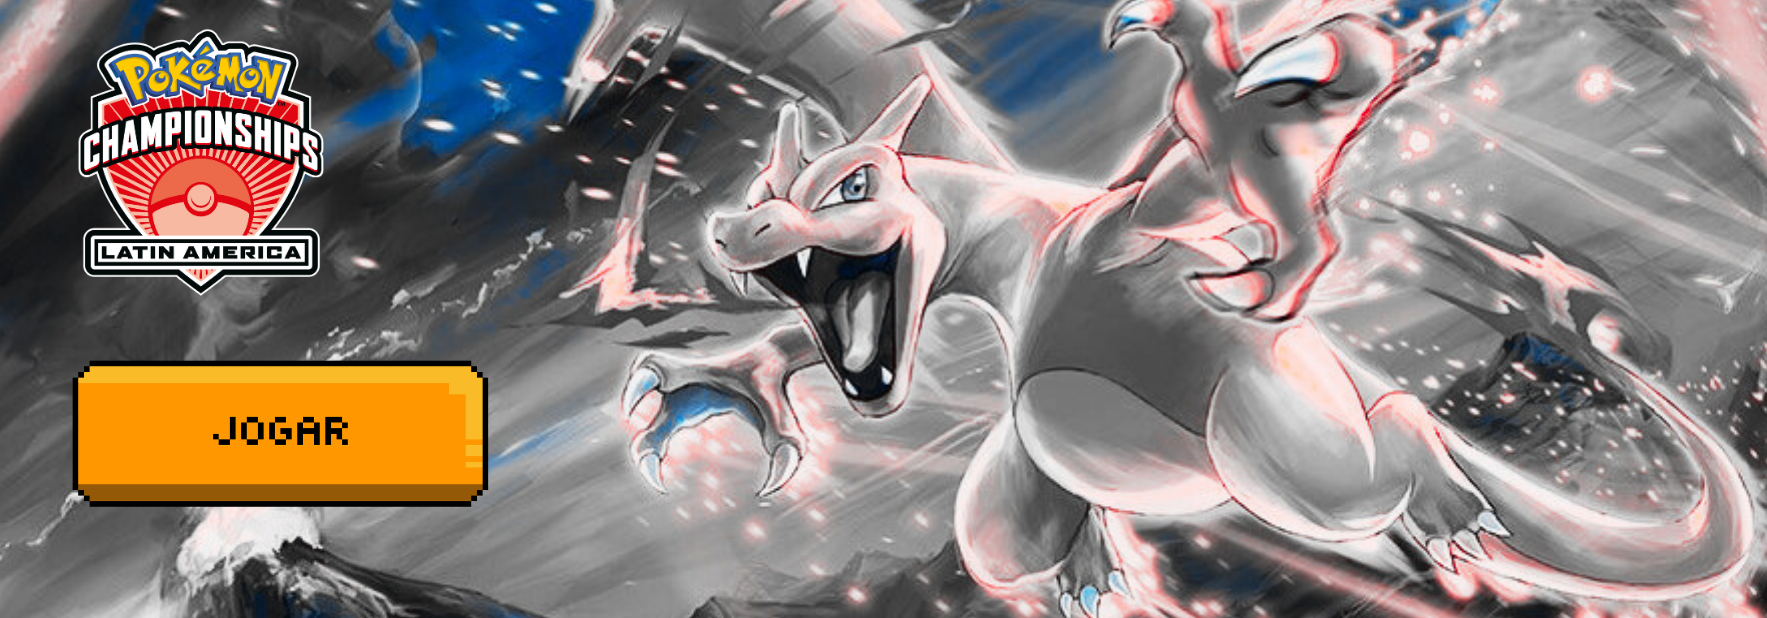
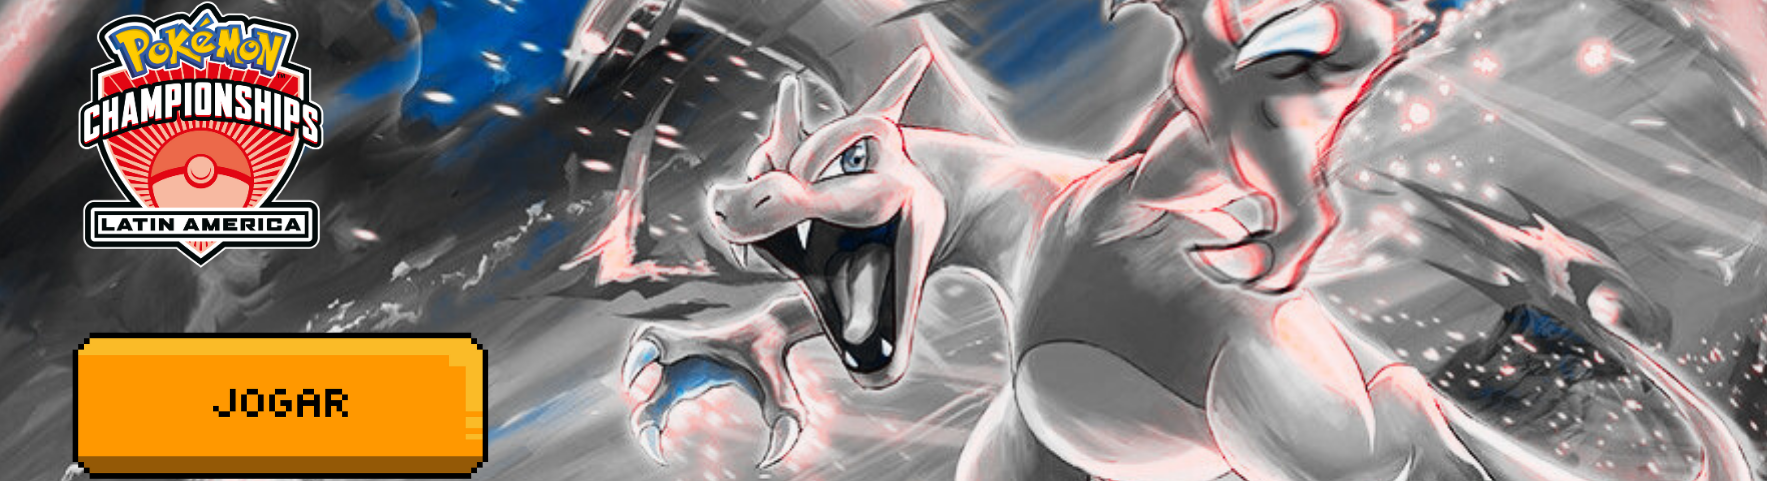
finalizacao pagina

diff --git a/index.html b/index.html
@@ -25,27 +25,24 @@
     </header>
     
 
-
-    <nav class="navbar navbar-expand-lg ">
-        <div class="container-fluid ">
-          
-          <button class="navbar-toggler" type="button" data-bs-toggle="collapse" data-bs-target="#navbarNavAltMarkup" aria-controls="navbarNavAltMarkup" aria-expanded="false" aria-label="Toggle navigation">
-            <span class="navbar-toggler-icon"></span>
-          </button>
-          <ul class="collapse navbar-collapse " id="navbarNavAltMarkup">
-            <div class="navbar-nav ">
-              <li class="nav-iten h2"><a class="nav-link active" aria-current="page" href="#">HOME</a></li>
-              <li class="nav-iten h2"><a class="nav-link" href="./pages/pokedex/pokedex.html">POKEDEX</a></li>
-              <li class="nav-iten h2"><a class="nav-link" href="./pages/aplicativos/aplicativos.html">APPS</a></li>
-              <li class="nav-iten h2"><a class="nav-link" href="./pages/animes/animes.html">ANIMES</a></li>
-              <li class="nav-iten h2"><a class="nav-link" href="./pages/jogos/jogos.html">JOGOS</a></li>
-
-            </div>
-            
-        </ul>
+    <nav class="navbar navbar-expand-lg">
+        <div class="container-fluid">
+            <button class="navbar-toggler" type="button" data-bs-toggle="collapse" data-bs-target="#navbarNavAltMarkup" aria-controls="navbarNavAltMarkup" aria-expanded="false" aria-label="Toggle navigation">
+                <span class="navbar-toggler-icon"></span>
+            </button>
+            <ul class="collapse navbar-collapse text-center mx-auto" id="navbarNavAltMarkup">
+                <div class="navbar-nav">
+                    <li class="nav-item h2"><a class="nav-link active" aria-current="page" href="#">HOME</a></li>
+                    <li class="nav-item h2"><a class="nav-link" href="./pages/pokedex/pokedex.html">POKEDEX</a></li>
+                    <li class="nav-item h2"><a class="nav-link" href="./pages/aplicativos/aplicativos.html">APPS</a></li>
+                    <li class="nav-item h2"><a class="nav-link" href="./pages/animes/animes.html">ANIMES</a></li>
+                    <li class="nav-item h2"><a class="nav-link" href="./pages/jogos/jogos.html">JOGOS</a></li>
+                </div>
+            </ul>
         </div>
-      </nav>
-
+    </nav>
+    
+    
     
     
     <main>
@@ -96,12 +93,12 @@
         <article class="ANIMEAPP">
             <div class="outros_menus">
                 <div class="APPS" >
-                    <img src="./img/how-to-pre-register-pokemon-sleep-android-ios.WEBP" align="bottom"> 
+                    <a class="nav-link" href="./pages/aplicativos/aplicativos.html"><img src="./img/how-to-pre-register-pokemon-sleep-android-ios.WEBP" align="bottom"> </a>
                     <h3>Conheça os aplicativos mais atuais de Pokemon</h3>
                 </div>
 
                 <div class="ANIMES">
-                    <img src="./img/662332.jpg">
+                    <a class="nav-link" href="./pages/animes/animes.html"><img src="./img/662332.jpg"></a>
                     <h3>Explore o grandioso mundo de Pokemon com nosso protagonista ASH</h3>
                 </div>
             </div>
@@ -115,7 +112,7 @@
                 
                 
             </header>
-            <img src="./img/imggame.png">
+            <a class="nav-link" href="./pages/jogos/jogos.html"><img src="./img/imggame.png"></a>
         </article>
 
         

diff --git a/css/main.css b/css/main.css
@@ -37,7 +37,7 @@ tablet: 768 até 992
 desktop: 992 até 1200
 grandes telas: acima de 1200
 */
-@media screen and (min-width: 600px) {
+@media screen and (min-width: 1000px) {
     
     body{
         width: 100%;
@@ -48,6 +48,7 @@ grandes telas: acima de 1200
         
        
     }
+  
     .header {
         position: relative;
     }
@@ -65,9 +66,12 @@ grandes telas: acima de 1200
         left: 0px;
         width: 35%;
     }
-    
    
+    .navbar-nav{
+        margin: 0 auto;
+    }
     .navbar-nav li {
+        
         font-family: 'Luckiest Guy', cursive;
         -webkit-text-stroke-width: 0.1px; 
         -webkit-text-stroke-color: #ffffff; 
@@ -149,6 +153,7 @@ grandes telas: acima de 1200
 
     }
     .container-1 {
+        height:auto;
         margin-top: 30px;
         display: flex;
         flex-direction: row;
@@ -182,20 +187,7 @@ grandes telas: acima de 1200
         width: 150px;
   }
 
-    .box::after{
-        content: attr(data-text);
-        position: absolute;
-        bottom: 20px;
-        background: #000000;
-        color: #ffffff;
-        
-
-        text-transform: uppercase;
-        transform: translateY(30px);
-        opacity: 0;
-        transition: all 400ms;
-        
-    }
+    
 
     .container-1:hover .box{
         filter: grayscale(100%) opacity(24%);
@@ -285,69 +277,6 @@ grandes telas: acima de 1200
         margin-top: 10px;
         width: 100%;
     }
-    .desenvolvedores{
-        background-color: #000000;
-        padding: 20px;
-    }
-    .desenvolvedores a{
-        color: aliceblue;
-        text-decoration: none;
-        font-size: 22px;
-    }
 
-    .desenvolvedores{
-        background-color: #545454;
-        border: 1px solid black;
-        margin-top: 30px;
-        display: grid;
-        grid-template-areas: 
-        "dev dev dev"
-        "dev dev dev";
-    }
-    .dev{
-        margin-top: 10px;
-        width: 90%;
-        border-radius: 5px;
-        background-color: #0099cc;
-        border: 1px solid black;
-    }
-    .desenvolvedores img{
-        margin-top: 10px;
-        width: 10%;
-        display: flex;
-        justify-content: center;
-    }
-    .desenvolvedores h3{
-        color:#000000;
-        font-family: "Roboto", sans-serif;
-    }
-    /* Pagina desenvolvedores */
-
-    .container__devs{
-        display: flex;
-    
-    }
-    .container__devs section{
-        width: 65%;
-        background-color: rgb(233, 93, 243);
-        min-height: 70vh;
-        padding: 30px;
-    }
-    .container__devs article{
-        width: 35%;
-        background-color:gold;
-        padding: 20px;
-        color: #000000;
-       font-size: 20px;
-       
-    }
-    .inform__devs{
-        line-height: 7px;
-       border-bottom: 4px solid purple;
-       margin-top: 15px;
-       color: #000000;
-       font-size: 20px;
-    }
-    
 
 }

diff --git a/css/main-mobile.css b/css/main-mobile.css
@@ -1,6 +1,6 @@
 @charset "UTF-8";
 
-@media screen and (max-width: 768px) {
+@media screen and (max-width: 1000px) {
     *{
         margin:0 auto;
         padding:0;
@@ -31,7 +31,13 @@
         left: 0px;
         width: 35%;
     }
+    .unavbarNavAltMarkup{
+        display: flex;
 
+        align-items: center;
+
+        justify-content: center;
+    }
     .pokebolaIcon{
         
         font-size: 100%;
@@ -146,7 +152,7 @@
     }
     .pokemonImage{
         display: flex;
-        width: 70%;
+        width: 20%;
     }
     .box{
         width: 100%;
@@ -161,20 +167,7 @@
         align-items: center;
     }
 
-    .box::after{
-        content: attr(data-text);
-        position: absolute;
-        bottom: 20px;
-        background: #000000;
-        color: #ffffff;
-        
-
-        text-transform: uppercase;
-        transform: translateY(30px);
-        opacity: 0;
-        transition: all 400ms;
-        
-    }
+  
 
     .container-1:hover .box{
         filter: grayscale(100%) opacity(24%);
@@ -274,32 +267,6 @@
         width: 100%;
     }
 
-    .desenvolvedores{
-        background-color: #545454;
-        border: 1px solid black;
-        margin-top: 30px;
-        display: grid;
-        grid-template-areas: 
-        "dev dev dev"
-        "dev dev dev";
-    }
-    .dev{
-        margin-top: 10px;
-        width: 90%;
-        border-radius: 5px;
-        background-color: #0099cc;
-        border: 1px solid black;
-    }
-    .desenvolvedores img{
-        margin-top: 10px;
-        width: 25%;
-        display: flex;
-        justify-content: center;
-    }
-    .desenvolvedores h3{
-        color:#000000;
-        font-family: "Roboto", sans-serif;
-    }
-
+   
    
 }

diff --git a/devs.html b/devs.html
@@ -63,9 +63,9 @@
                             target="_blank">Linkedin</a></p>
                 </div>
                 <div class="inform__devs">
-                    <p>Nome: Seu nome aqui</p>
-                    <p>Responsável pela página: sua página aqui</p>
-                    <p>Linkedin: <a href="seu linkedin aqui" target="_blank">Linkedin</a></p>
+                    <p>Nome: Thiago Hideo Xavier Kodama</p>
+                    <p>Responsável pela página: HOME</p>
+                    <p>Linkedin: <a href="https://www.linkedin.com/in/thiago-kodama-89484b1a2/" target="_blank">Linkedin</a></p>
                 </div>
                 <div class="inform__devs">
                     <p>Nome: Seu nome aqui</p>
